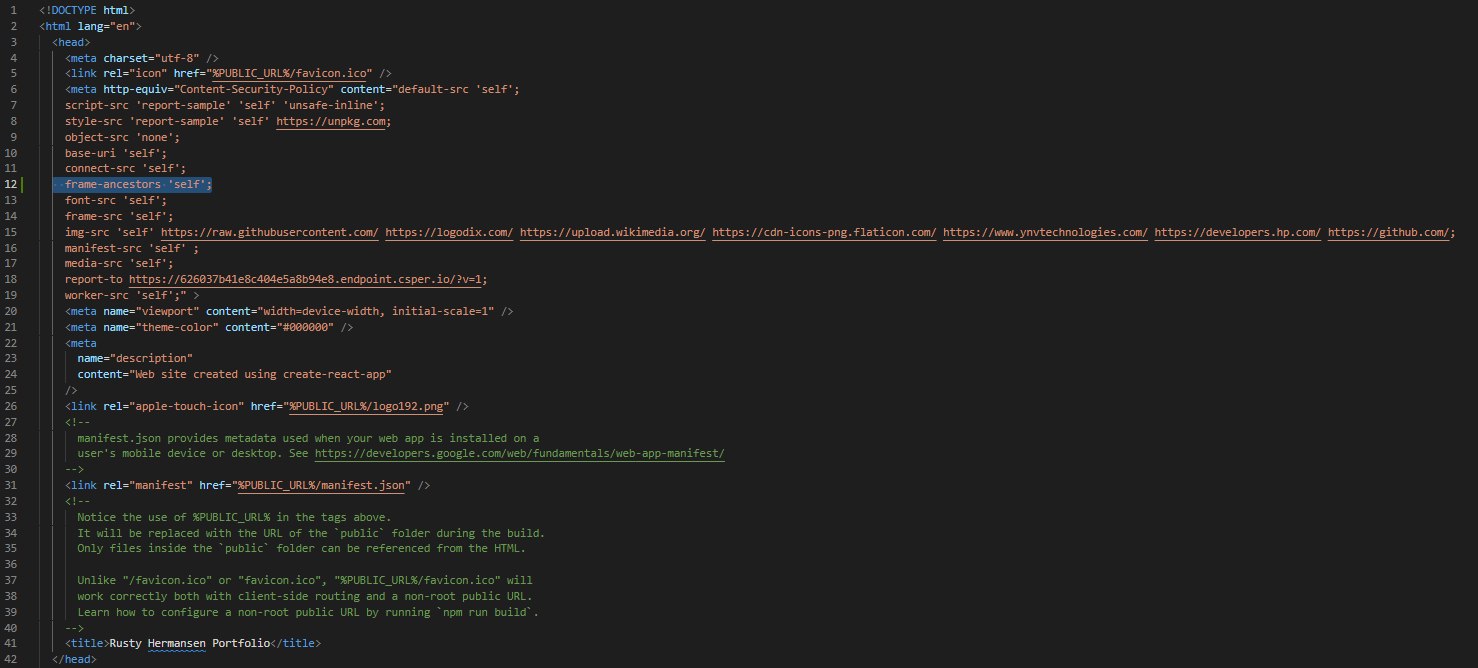
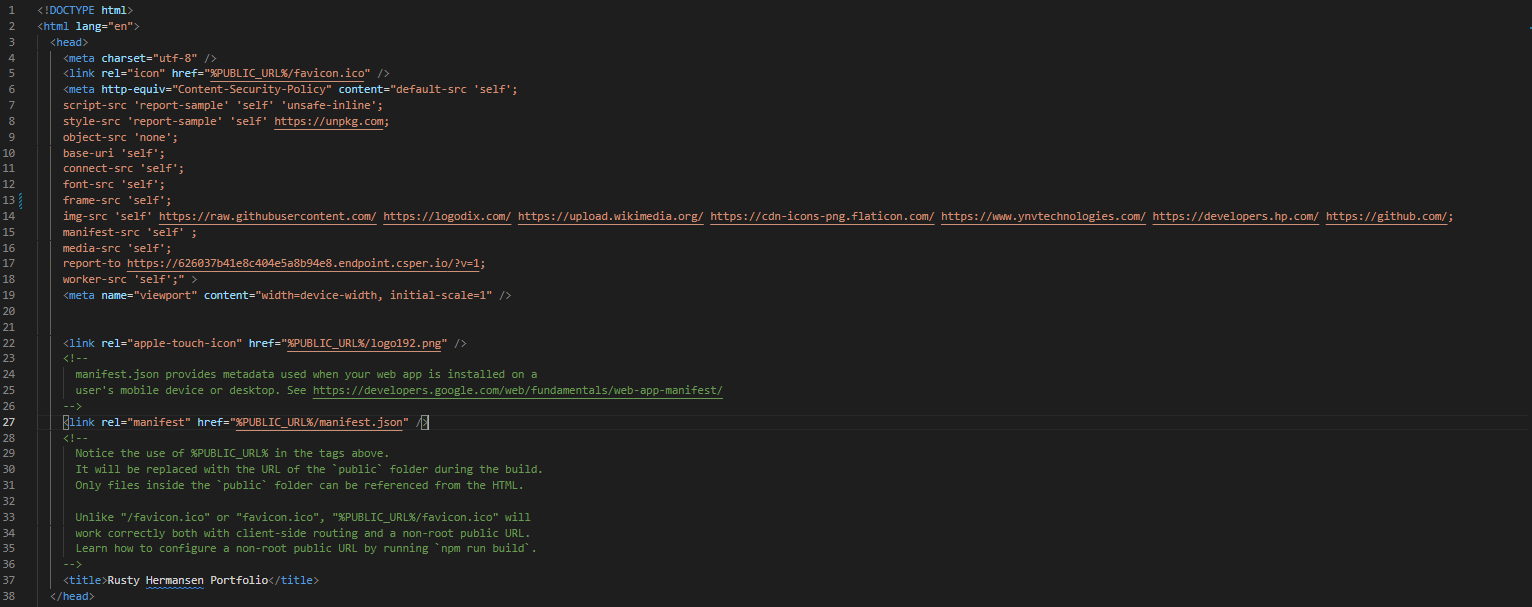
finished csp post

Changed region(s): [[0.0, 0.0, 0.9959, 1.0]]

diff --git a/React/public/index.html b/React/public/index.html
@@ -10,7 +10,7 @@
     base-uri 'self';
     connect-src 'self';
     font-src 'self';
-    frame-src 'none';
+    frame-src 'self';
     img-src 'self' https://raw.githubusercontent.com/ https://logodix.com/ https://upload.wikimedia.org/ https://cdn-icons-png.flaticon.com/ https://www.ynvtechnologies.com/ https://developers.hp.com/ https://github.com/;
     manifest-src 'self' ;
     media-src 'self';

diff --git a/React/src/posts/cpsReact/reactCSP.md b/React/src/posts/cpsReact/reactCSP.md
@@ -41,7 +41,7 @@ Once you have your extension installed now all you need to do is navigate to you
 
 ![generatedpolicy](./images/generatedpolicy.png)
 
-Now that I have a policy generated, it's time to put the policy to work. There is more than one way put your policy to work, you can do it in your NGINX conf files if you want if you're using NGINX or you can just put meta tags in the head of your HTML page. Since React is a single page application you really only ever need to worry about putting it in one place, that being between the head tags in the index.html file that lives in the public folder (that is, if you used npx create-react-app *appname* to scaffold your react app for you).
+Now that I have a policy generated, it's time to put the policy to work. There is more than one way put your policy to work, you can do it in your NGINX conf files if you want if you're using NGINX and/or you can put meta tags in the head of your HTML page. Since React is a single page application you really only ever need to worry about putting it in one place, that being between the head tags in the index.html file that lives in the public folder (that is, if you used npx create-react-app *appname* to scaffold your react app for you).
 
 ![index.html](./images/index.png)
 
@@ -49,8 +49,12 @@ Here is what my code looks like with the content security policy in index.html t
 
 ![csp-index](./images/csp-index.png)
 
-You'll notice that I made some changes to mine, these changes were made because I have some images that render from a URL as opposed to living inside of directory for my page. You may very well have to make some of your own changes for your own content security policy. The good news is,  you can use the console in your browser developer tools when you inspect a page in order to determine if your security policy needs some tweaking to make all of your features work. I also added the frame-ancestors 'self' piece on line 12, it is this line specifically that blocks your page from being able to be rendered in an iframe as shown below.
+You'll notice that I made some changes to mine, these changes were made because I have some images that render from a URL as opposed to living inside of directory for my page. You may very well have to make some of your own changes for your own content security policy. The good news is,  you can use the console in your browser developer tools when you inspect a page in order to determine if your security policy needs some tweaking to make all of your features work.
 
-![completecsp](./images/csp-complete.png)
+![completecsp](./images/defaultconf.png)
+
+In my case, I needed to add a piece of code on line 46 in the default.conf file for NGINX to prevent clickjacking. You may notice that there is no frame-ancestors in the picture above. This is because you can't put this in meta tags, it has to be put in a header.
+
+![completecsp](./images/noclickjack.png)
 
 There you have it, a content security policy in place and a page that is more secure than it was before. 
